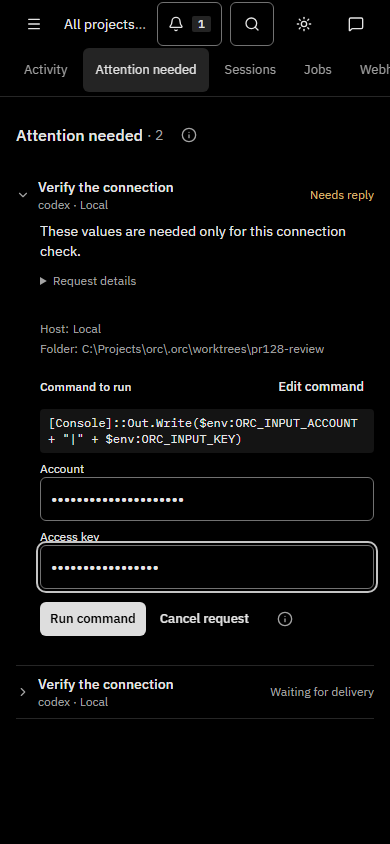
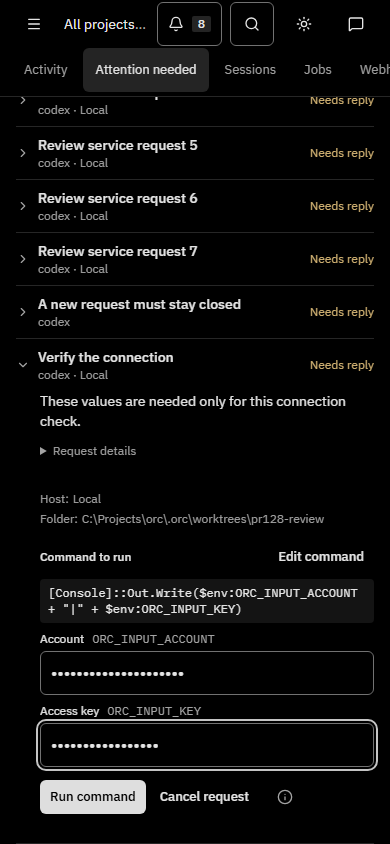
fix: show command variable names beside secure inputs [skip ci]

diff --git a/packages/web/tests/e2e/attention-requests.e2e.ts b/packages/web/tests/e2e/attention-requests.e2e.ts
@@ -71,6 +71,10 @@ test("should review compact requests, preserve masked drafts and return redacted
   await expect(card.getByTestId("attention-command")).toHaveCount(0);
   for (const [name, value] of Object.entries(values)) {
     const input = card.getByTestId(`attention-argument-${name}`);
+    const variable = `ORC_INPUT_${name}`;
+    await expect(card.getByTestId(`attention-argument-name-${name}`)).toHaveText(variable);
+    await expect(card.getByTestId("attention-command-preview")).toContainText(variable);
+    await expect(input).toHaveAccessibleName(new RegExp(variable));
     await expect(input).toHaveAttribute("type", "password");
     await input.fill(value);
   }
@@ -158,6 +162,14 @@ for (const width of [320, 390])
       await card.getByTestId("attention-review").tap();
       await card.getByTestId("attention-argument-ACCOUNT").fill("private-touch-account");
       await card.getByTestId("attention-argument-KEY").fill("private-touch-key");
+      for (const name of ["ACCOUNT", "KEY"]) {
+        await expect(card.getByTestId(`attention-argument-name-${name}`)).toHaveText(
+          `ORC_INPUT_${name}`,
+        );
+        await expect(card.getByTestId("attention-command-preview")).toContainText(
+          `ORC_INPUT_${name}`,
+        );
+      }
       await card.scrollIntoViewIfNeeded();
       for (const testId of [
         "attention-review",

diff --git a/packages/web/src/components/CommandRequestForm.tsx b/packages/web/src/components/CommandRequestForm.tsx
@@ -110,9 +110,17 @@ export function CommandRequestForm({
                 className="block min-w-0 space-y-1 text-xs"
                 key={arg.name}
               >
-                <span>
-                  {arg.label}
-                  {!arg.required ? " (optional)" : ""}
+                <span className="flex flex-wrap items-baseline gap-x-2">
+                  <span>
+                    {arg.label}
+                    {!arg.required ? " (optional)" : ""}
+                  </span>
+                  <code
+                    data-testid={`attention-argument-name-${arg.name}`}
+                    className="break-all font-mono text-xs text-muted-foreground"
+                  >
+                    {`ORC_INPUT_${arg.name}`}
+                  </code>
                 </span>
                 <Input
                   id={`argument-${request.id}-${arg.name}`}

diff --git a/docs/command-requests.md b/docs/command-requests.md
@@ -12,6 +12,9 @@ Declare as many inputs as needed (up to 20), for example
 `{name:"PASSWORD",label:"Service password",description:"Used only for this login",required:true}`.
 Every input is masked and redacted, including usernames, URLs and other values
 that do not look like passwords. Inputs are never returned raw to the agent.
+Each field shows its friendly label beside the exact command variable, such as
+`Access key` and `ORC_INPUT_KEY`, so it can be matched to `$ORC_INPUT_KEY` or
+`$env:ORC_INPUT_KEY` in the preview without revealing the entered value.
 Use the execution host's shell syntax for environment variables, for example
 `my-cli login --password "$ORC_INPUT_PASSWORD"` in bash/zsh or
 `my-cli login --password "$env:ORC_INPUT_PASSWORD"` in PowerShell.
